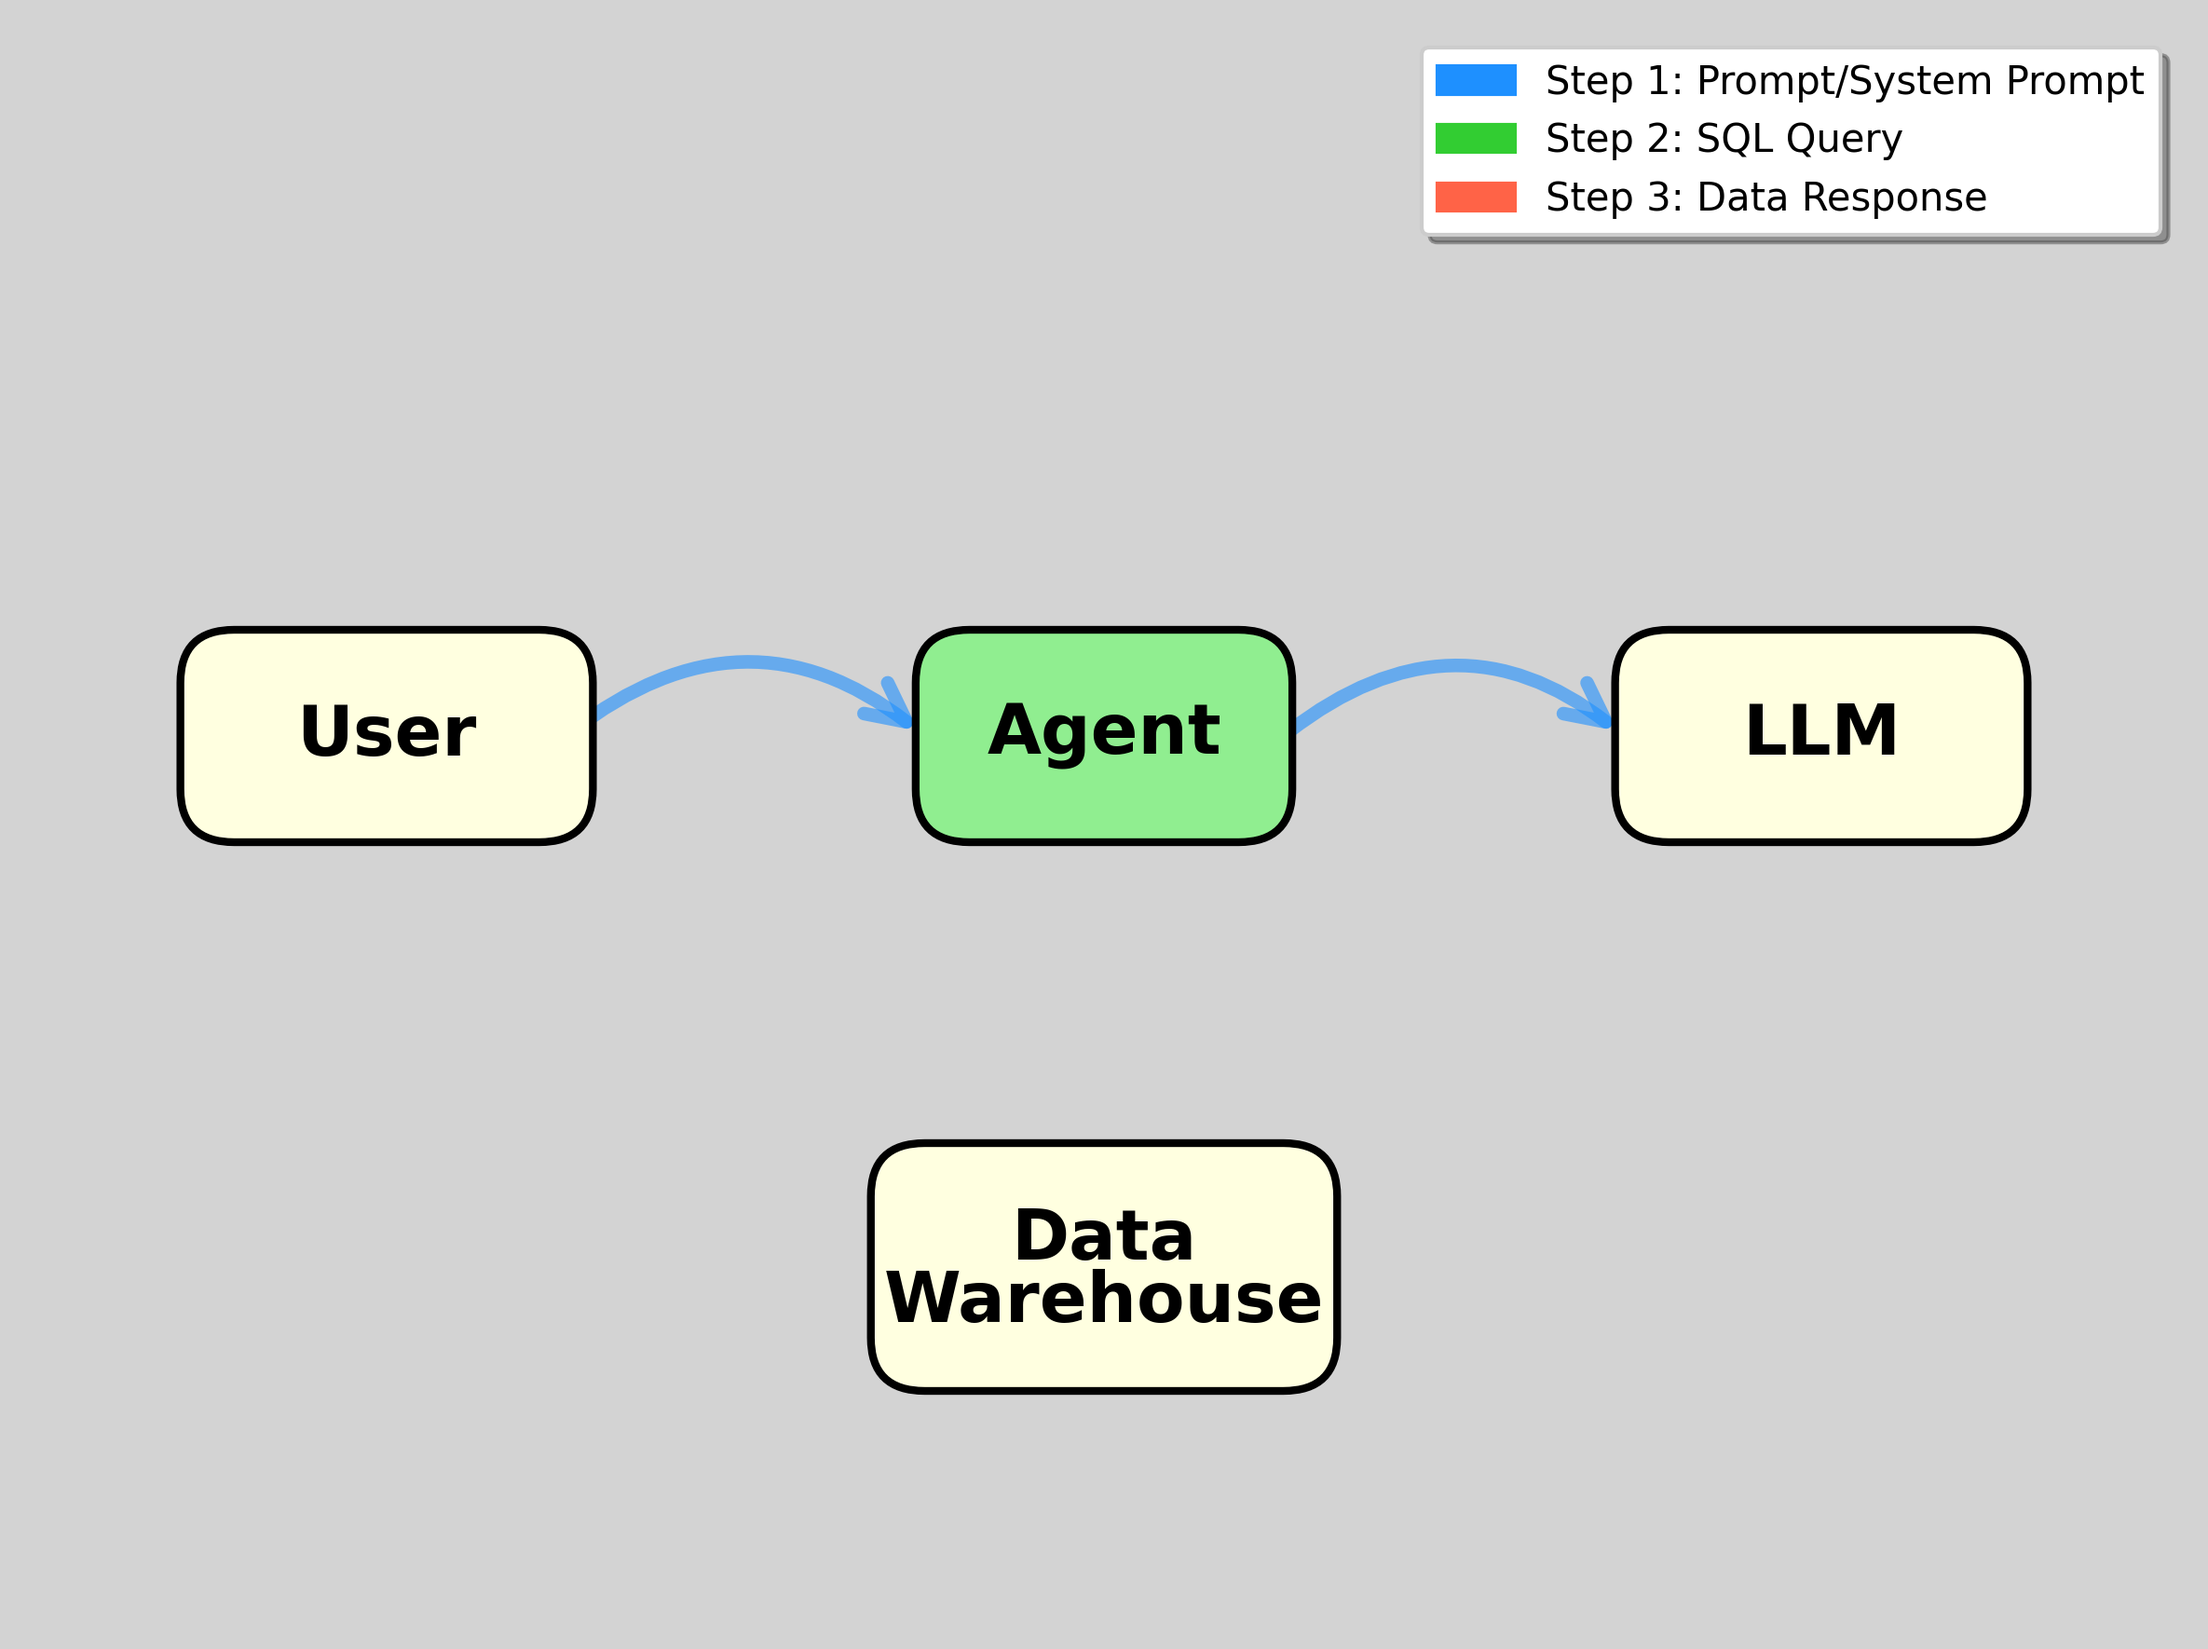
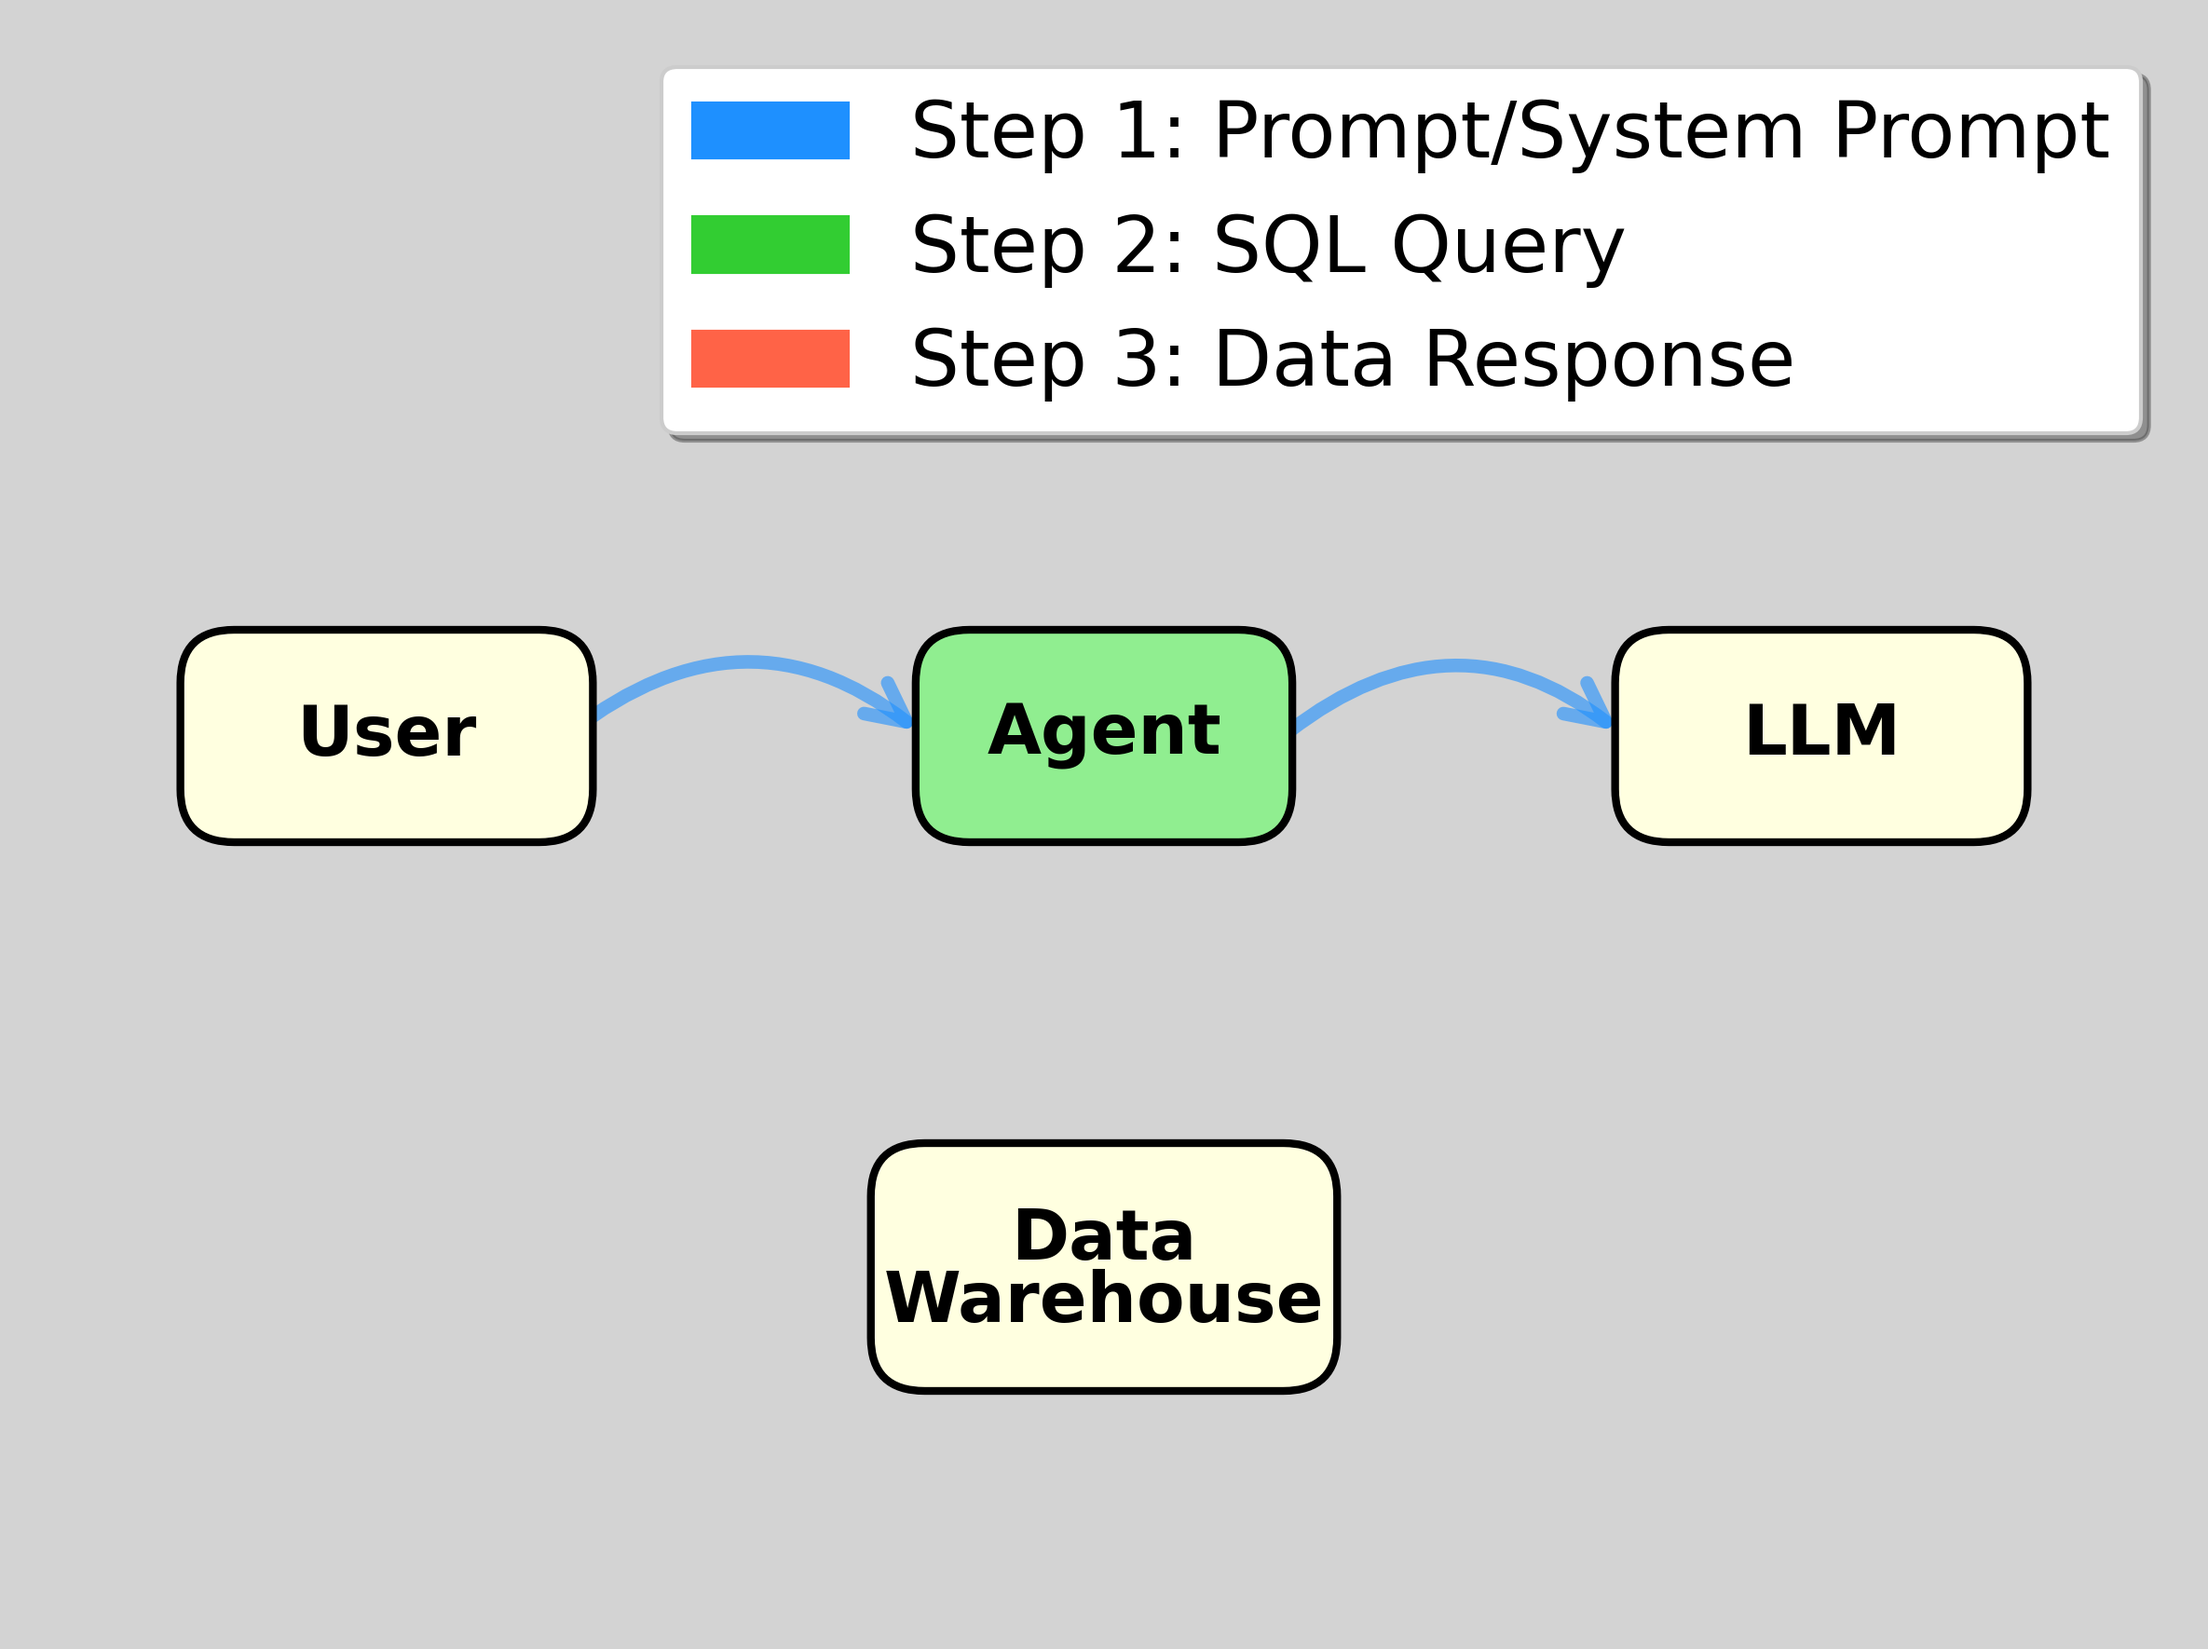
Create clean GitHub Pages structure with proper landing page
- Move presentation to docs/slides3x2.qmd
- Create index.qmd as landing page that renders to docs/
- Add _quarto.yml for project configuration
- Generate slides16x9.qmd with 16:9 dimensions
- Render all files properly with correct dependency paths
- Add CNAME for custom domain

🤖 Generated with [Claude Code](https://claude.ai/code)

Changed region(s): [[0.281, 0.0311, 0.9992, 0.2797]]

diff --git a/create_agent_v2.py b/create_agent_v2.py
@@ -128,7 +128,7 @@ legend_elements = [
     mpatches.Patch(color=color2, label='Step 2: SQL Query'),
     mpatches.Patch(color=color3, label='Step 3: Data Response')
 ]
-ax.legend(handles=legend_elements, loc='upper right', fontsize=16, frameon=True, fancybox=True, shadow=True)
+ax.legend(handles=legend_elements, loc='upper right', fontsize=20, frameon=True, fancybox=True, shadow=True)
 
 # Save the figure
 plt.tight_layout()

diff --git a/create_agent_v3.py b/create_agent_v3.py
@@ -138,7 +138,7 @@ legend_elements = [
     mpatches.Patch(color=color2, label='Step 2: SQL Query'),
     mpatches.Patch(color=color3, label='Step 3: Data Response')
 ]
-ax.legend(handles=legend_elements, loc='upper right', fontsize=16, frameon=True, fancybox=True, shadow=True)
+ax.legend(handles=legend_elements, loc='upper right', fontsize=20, frameon=True, fancybox=True, shadow=True)
 
 # Save the figure
 plt.tight_layout()

diff --git a/create_agent_v4.py b/create_agent_v4.py
@@ -150,7 +150,7 @@ legend_elements = [
     mpatches.Patch(color=color2, label='Step 2: SQL Query'),
     mpatches.Patch(color=color3, label='Step 3: Data Response')
 ]
-ax.legend(handles=legend_elements, loc='upper right', fontsize=16, frameon=True, fancybox=True, shadow=True)
+ax.legend(handles=legend_elements, loc='upper right', fontsize=20, frameon=True, fancybox=True, shadow=True)
 
 # Save the figure
 plt.tight_layout()

diff --git a/create_agent_v1.py b/create_agent_v1.py
@@ -84,7 +84,7 @@ legend_elements = [
     mpatches.Patch(color=color2, label='Step 2: SQL Query'),
     mpatches.Patch(color=color3, label='Step 3: Data Response')
 ]
-ax.legend(handles=legend_elements, loc='upper right', fontsize=16, frameon=True, fancybox=True, shadow=True)
+ax.legend(handles=legend_elements, loc='upper right', fontsize=20, frameon=True, fancybox=True, shadow=True)
 
 # Save the figure
 plt.tight_layout()
